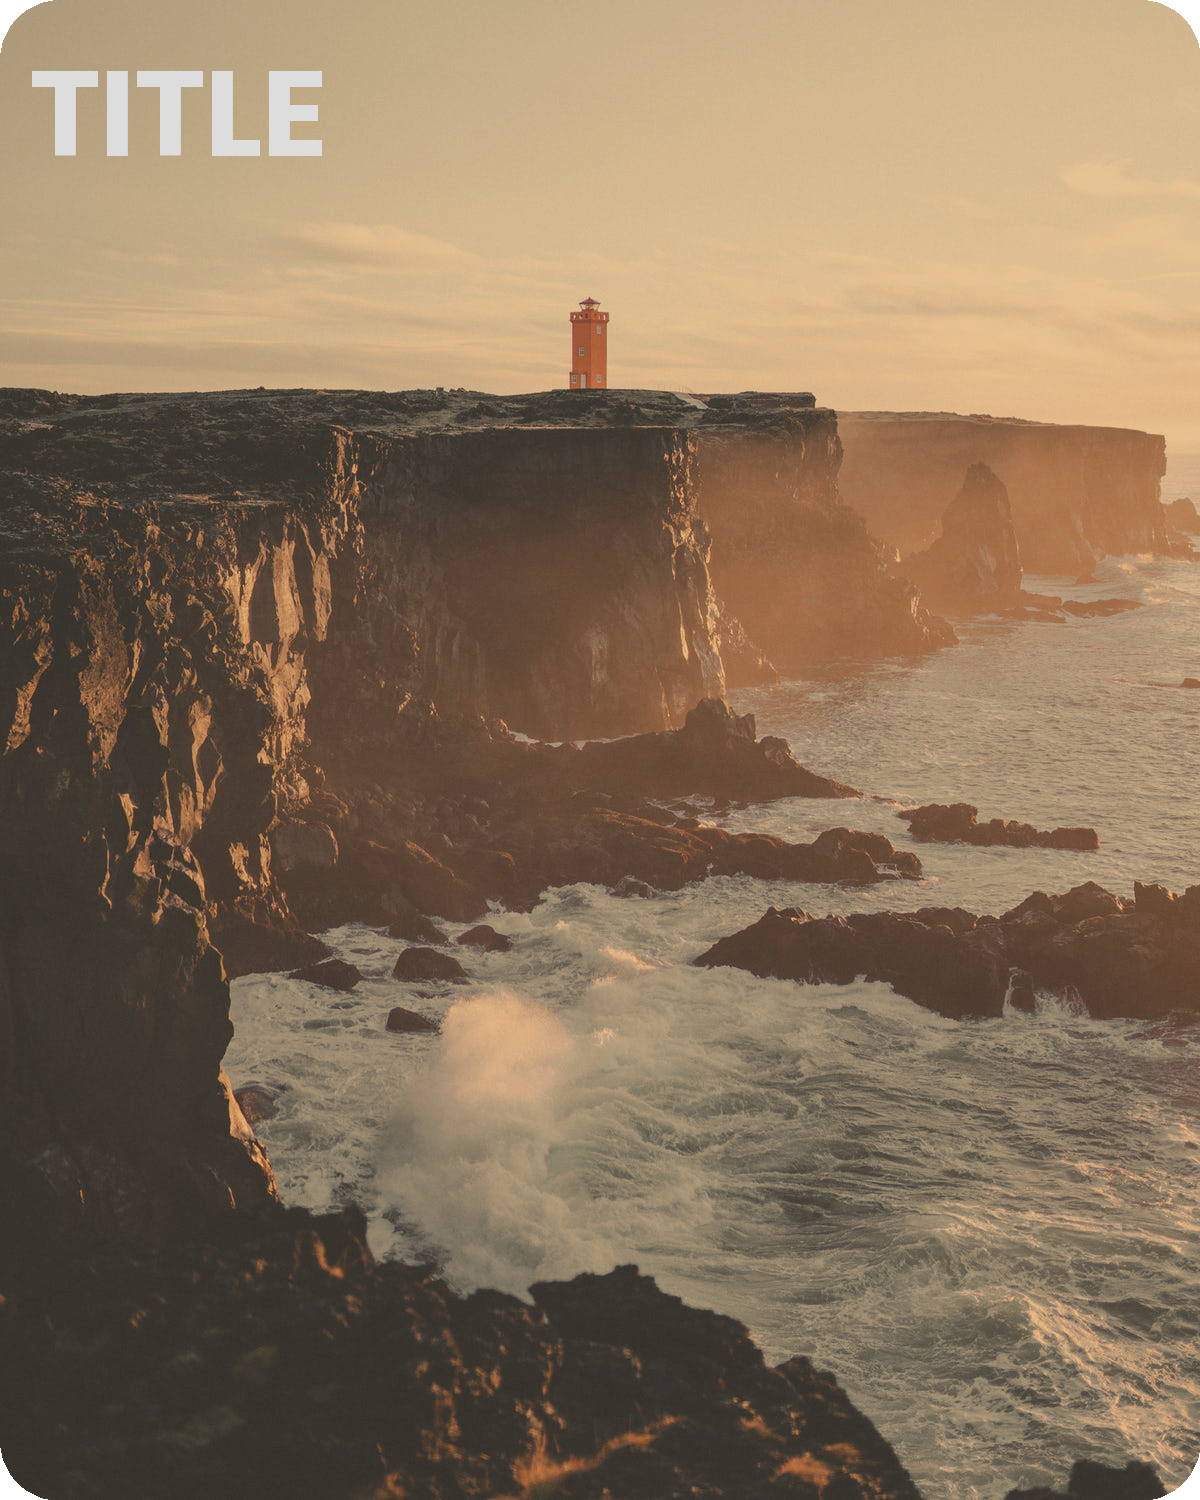
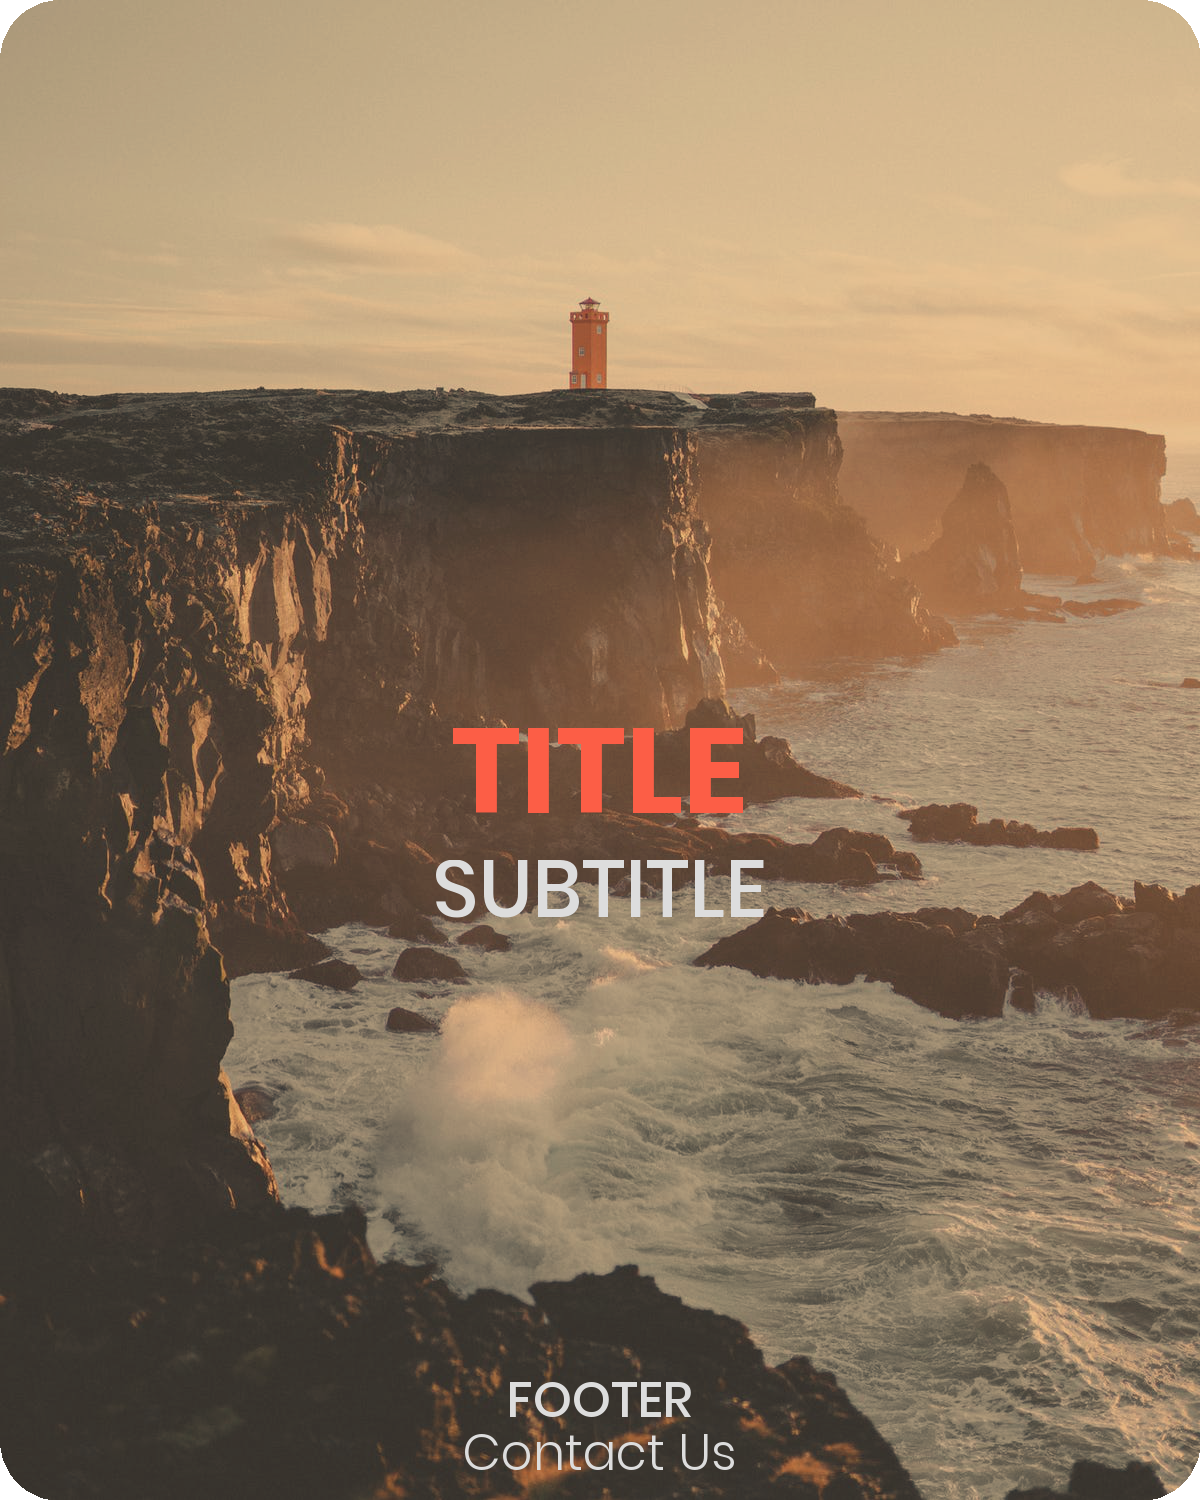
hey look i didn't mess things up

Changed region(s): [[0.37, 0.46, 0.6475, 0.6133], [0.0308, 0.0307, 0.2775, 0.1227], [0.37, 0.92, 0.6167, 0.9813]]

diff --git a/main.py b/main.py
@@ -156,86 +156,62 @@ def tintImage(directory, tint_color):
 # font enum stores an index into this array
 fontList = ["Poppins-Regular.ttf", "Poppins-Italic.ttf", "Poppins-SemiBold.ttf", "Poppins-Bold.ttf", "Poppins-Light.ttf", "Poppins-Medium.ttf", "Poppins-Thin.ttf", "Poppins-SemiBoldItalic.ttf", "Poppins-BoldItalic.ttf", "Poppins-LightItalic.ttf", "Poppins-MediumItalic.ttf", "Poppins-ThinItalic.ttf"]
 
-# TODO: implement title positioning
-# TODO: implement word wrapping
-def addTitle(path, targetPath, text, style=Font.REGULAR, color=Color.BLACK, position=Position.CENTER, size=120):
+yOffset = 0
+
+targetX = 0
+targetY = 0
+
+# this text refers to an instance of the Text class
+def __write__(img, text, position):
+	"""
+	This is an internal function.
+	Its parameters are the same as addText
+	"""
+
 	global fontList
+	global yOffset
+	global targetX
+	global targetY
 
-	"""
-	param: path
-	type: String
-	desc: path to the image
-
-	param: text
-	type: String
-	desc: title text
-
-	param: style
-	type: Font
-	desc: specifies the font style. refer to Font class
-
-	param: color
-	type: Color or tuple
-	desc: color to use for the title
-
-	param: position
-	type: Position
-	desc: The position of the title on the image
-
-	param: size
-	type: int
-	desc: text size for the title
-
-	Adds a title with the given text to the specified images
-	"""
-
-	# create a new image object with the given path
-	img = Image.open(path).convert('RGBA')
 	draw = ImageDraw.Draw(img)
 
-	# create a new ImageFont type and load the specified ttf font
-	targetFont = ImageFont.truetype("Fonts/" + fontList[style.value], size)
+	targetFont = ImageFont.truetype("Fonts/" + fontList[text.style.value], text.size)
 
 	colorTuple = ()
 
-	if type(color) == tuple:
-		colorTuple = color
+	if type(text.color) == tuple:
+		colorTuple = text.color
 	else:
-		colorTuple = hexToRGB(str(hex(color.value))) # FIX THIS
-
-	# create an rgb tuple out of the derived hex value from the color
-	#colorTuple = hexToRGB(str(hex(color.value)))
-
-	# for now, we draw the title on the center of the image
-	# until positioning is implemented
+		# create an rgb tuple out of the derived hex value from the color
+		colorTuple = hexToRGB(str(hex(text.color.value)))
 	
-	# grab the dimensions of the image and the title
+	# grab the dimensions of the image and the content
 	imageWidth, imageHeight = img.size # size is an attribute, not a method for some reason. this lib is pretty inconsistent
-	titleWidth, titleHeight = targetFont.getsize(text)
+	contentWidth, contentHeight = targetFont.getsize(text.content)
 
 	if position == Position.TOP_LEFT:
 		targetX = 30
-		targetY = 30
+		targetY = 30 + yOffset
 
-		draw.text((targetX, targetY), text, colorTuple, font=targetFont)
+		draw.text((targetX, targetY), text.content, colorTuple, font=targetFont)
 
 	elif position == Position.TOP_RIGHT:
-		targetX = imageWidth - (titleWidth + 30)
-		targetY = 30
+		targetX = imageWidth - (contentWidth + 30)
+		targetY = 30 + yOffset
 
-		draw.text((targetX, targetY), text, colorTuple, font=targetFont)
+		draw.text((targetX, targetY), text.content, colorTuple, font=targetFont)
 
 	elif position == Position.BOTTOM_LEFT:
 		targetX = 30
-		targetY = imageHeight - (titleHeight + 30)
+		targetY = imageHeight - contentHeight - 30 - yOffset
 
-		draw.text((targetX, targetY), text, colorTuple, font=targetFont)
+		draw.text((targetX, targetY), text.content, colorTuple, font=targetFont)
 
 	elif position == Position.BOTTOM_RIGHT:
-		targetX = imageWidth - (titleWidth + 30)
-		targetY = imageHeight - (titleHeight + 30)
+		targetX = imageWidth - (contentWidth + 30)
+		targetY = imageHeight - contentHeight - 30 - yOffset
 
-		draw.text((targetX, targetY), text, colorTuple, font=targetFont)
+		draw.text((targetX, targetY), text.content, colorTuple, font=targetFont)
 
 	elif position == Position.CENTER:
 		# calculate the center coordinates of the image
@@ -243,13 +219,84 @@ def addTitle(path, targetPath, text, style=Font.REGULAR, color=Color.BLACK, posi
 		centerY = imageHeight / 2
 
 		# we place the text at centerX - (titleWidth / 2) and centerY - (titleHeight / 2)
-		targetX = centerX - (titleWidth / 2)
-		targetY = centerY - (titleHeight / 2)
+		targetX = centerX - (contentWidth / 2)
+		targetY = centerY - (contentHeight / 2) + yOffset
 
-		draw.text((targetX, targetY), text, colorTuple, font=targetFont)
+		draw.text((targetX, targetY), text.content, colorTuple, font=targetFont)
+	elif position == Position.TOP_CENTER:
+		centerX = imageWidth / 2
+
+		targetX = centerX - (contentWidth / 2)
+		targetY = 30 + yOffset
+
+		draw.text((targetX, targetY), text.content, colorTuple, font=targetFont)
+	elif position == Position.BOTTOM_CENTER:
+		centerX = imageWidth / 2
+		
+		targetX = centerX - (contentWidth / 2)
+		targetY = imageHeight - contentHeight - 30 - yOffset
+
+		draw.text((targetX, targetY), text.content, colorTuple, font=targetFont)
+
+	return img
+
+# TODO: implement word wrapping
+# this text refers to an instance of the Text class
+def addText(path, targetPath, text, position=Position.CENTER):
+	"""
+	param: path
+	type: String
+	desc: path to the image
+
+	param: targetPath
+	type: String
+	desc: path to output image
+
+	param: text
+	type: Text or list
+	desc: a Text object or list of Text objects
+
+	param: position
+	type: Position
+	desc: The position of the title on the image
+
+	Adds a title with the given text to the specified images
+	"""
+
+	global fontList
+	global yOffset
+	global targetX
+	global targetY
+
+	yOffset = 0
+	targetX = 0
+	targetY = 0
+
+	# create a new image object with the given path
+	img = Image.open(path).convert('RGBA')
+
+	if type(text) == Text:
+		# create a new ImageFont type and load the specified ttf font
+		img = __write__(img, text, position)
+		
+	elif type(text) == list:
+		for item in text:
+			img = __write__(img, item, position)
+			
+			targetFont = ImageFont.truetype("Fonts/" + fontList[item.style.value], item.size)
+			contentWidth, contentHeight = targetFont.getsize(item.content)
+			yOffset += contentHeight
+
 
 	img.save(targetPath)
 
 round_corners_of_all_images(directory=None)
 tintImage("./modified", (230, 190, 138, 225))
-addTitle("./modified/lighthouse.png", "./modified/lighthouse.png", "TITLE", style=Font.BOLD, color=(221, 221, 221, 255), position=Position.TOP_LEFT)
+
+title = Text("TITLE", Font.BOLD, Color.LIGHTRED, 120)
+subtitle = Text("SUBTITLE", Font.MEDIUM, Color.WHITE, 80)
+hello = Text("FOOTER", Font.MEDIUM, Color.WHITE, 50)
+contact = Text("Contact Us", Font.LIGHT, Color.WHITE, 50)
+
+addText("./modified/lighthouse.png", "./modified/lighthouse.png", [title, subtitle], Position.CENTER)
+addText("./modified/lighthouse.png", "./modified/lighthouse.png", [contact, hello], Position.BOTTOM_CENTER)

diff --git a/common.py b/common.py
@@ -9,29 +9,26 @@ import enum
 def hexToRGB(value):
 	value = value.strip("0x");
 	lv = len(value)
+	
 	return tuple(int(value[i:i + lv // 3], 16) for i in range(0, lv, lv // 3))
 
-
+# this text object prevents the functions from becoming too repetitive
+# TODO: implement text decoration
 class Text(object):
-	def __init__(self, text, style, color):
-		this.text = text
-		this.style = style
-		this.color = color
+	def __init__(self, content, style, color, size):
+		self.content = content
+		self.style = style
+		self.color = color
+		self.size = size
 
-# holds a list of text objects
-# all text objects get placed at the same position
-class Group(object):
-	def __init__(self, items):
-		this.items = items
-
-# the only reason these exist is to make it easier on the user
-# by sacrificing performance
 class Position(enum.Enum):
 	TOP_LEFT = 0
 	TOP_RIGHT = 1
 	BOTTOM_LEFT = 2
 	BOTTOM_RIGHT = 3
 	CENTER = 4
+	TOP_CENTER = 5
+	BOTTOM_CENTER = 6
 
 # TODO: support word wrapping
 class ALIGN(enum.Enum):
@@ -59,7 +56,7 @@ class Font(enum.Enum):
 class Color(enum.Enum):
 	TRANSPARENT = -1
 
-	# TODO: detect the color in the image and use that
+	# TODO: detect colors in the image and use those
 	PRIMARY = -2
 	SECONDARY = -3
 	TERTIARY = -4
